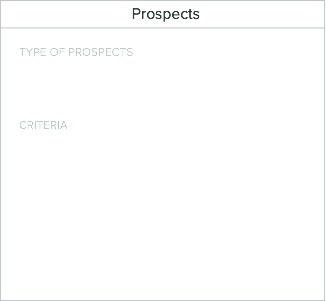
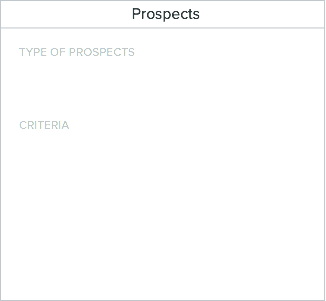
v2
Scrolling and layer over

Changed region(s): [[0.1227, 0.1495, 0.4294, 0.2093], [0.0613, 0.3887, 0.2147, 0.4485]]

diff --git a/connect_customization/opt1/framer/framer.generated.js b/connect_customization/opt1/framer/framer.generated.js
@@ -43,20 +43,20 @@ window.__imported__["0106-Prototype/layers.json.js"] = [
                                 "id": "4F8C3E00-CF2F-43CC-9616-E762C18FD438", 
                                 "image": {
                                     "frame": {
-                                        "height": 15, 
+                                        "height": 14, 
                                         "width": 14, 
                                         "x": 1075, 
-                                        "y": 276
+                                        "y": 277
                                     }, 
                                     "path": "images/Layer-Rectangle_34_Copy_2__Line__Line-4F8C3E00-CF2F-43CC-9616-E762C18FD438.png"
                                 }, 
                                 "imageType": "png", 
                                 "kind": "group", 
                                 "layerFrame": {
-                                    "height": 15, 
+                                    "height": 14, 
                                     "width": 14, 
                                     "x": 1075, 
-                                    "y": 276
+                                    "y": 277
                                 }, 
                                 "maskFrame": null, 
                                 "metadata": {
@@ -133,7 +133,7 @@ window.__imported__["0106-Prototype/layers.json.js"] = [
                     "opacity": 1
                 }, 
                 "name": "PreviewScreen", 
-                "visible": true
+                "visible": false
             }, 
             {
                 "children": [], 
@@ -141,9 +141,9 @@ window.__imported__["0106-Prototype/layers.json.js"] = [
                 "image": {
                     "frame": {
                         "height": 24, 
-                        "width": 111, 
-                        "x": 72, 
-                        "y": 467
+                        "width": 146, 
+                        "x": 35, 
+                        "y": 424
                     }, 
                     "path": "images/Layer-HelpOver-B7579FB9-05DA-4895-A546-760388C447FB.png"
                 }, 
@@ -151,9 +151,9 @@ window.__imported__["0106-Prototype/layers.json.js"] = [
                 "kind": "group", 
                 "layerFrame": {
                     "height": 24, 
-                    "width": 111, 
-                    "x": 72, 
-                    "y": 467
+                    "width": 146, 
+                    "x": 35, 
+                    "y": 424
                 }, 
                 "maskFrame": null, 
                 "metadata": {
@@ -2141,7 +2141,7 @@ window.__imported__["0106-Prototype/layers.json.js"] = [
         }, 
         "maskFrame": null, 
         "metadata": {}, 
-        "name": "01ListBased", 
+        "name": "Artboard", 
         "visible": true
     }
 ]

diff --git a/connect_customization/opt1/imported/0106-Prototype@1x/layers.json.js b/connect_customization/opt1/imported/0106-Prototype@1x/layers.json.js
@@ -40,20 +40,20 @@ window.__imported__["0106-Prototype/layers.json.js"] = [
                                 "id": "4F8C3E00-CF2F-43CC-9616-E762C18FD438", 
                                 "image": {
                                     "frame": {
-                                        "height": 15, 
+                                        "height": 14, 
                                         "width": 14, 
                                         "x": 1075, 
-                                        "y": 276
+                                        "y": 277
                                     }, 
                                     "path": "images/Layer-Rectangle_34_Copy_2__Line__Line-4F8C3E00-CF2F-43CC-9616-E762C18FD438.png"
                                 }, 
                                 "imageType": "png", 
                                 "kind": "group", 
                                 "layerFrame": {
-                                    "height": 15, 
+                                    "height": 14, 
                                     "width": 14, 
                                     "x": 1075, 
-                                    "y": 276
+                                    "y": 277
                                 }, 
                                 "maskFrame": null, 
                                 "metadata": {
@@ -130,7 +130,7 @@ window.__imported__["0106-Prototype/layers.json.js"] = [
                     "opacity": 1
                 }, 
                 "name": "PreviewScreen", 
-                "visible": true
+                "visible": false
             }, 
             {
                 "children": [], 
@@ -138,9 +138,9 @@ window.__imported__["0106-Prototype/layers.json.js"] = [
                 "image": {
                     "frame": {
                         "height": 24, 
-                        "width": 111, 
-                        "x": 72, 
-                        "y": 467
+                        "width": 146, 
+                        "x": 35, 
+                        "y": 424
                     }, 
                     "path": "images/Layer-HelpOver-B7579FB9-05DA-4895-A546-760388C447FB.png"
                 }, 
@@ -148,9 +148,9 @@ window.__imported__["0106-Prototype/layers.json.js"] = [
                 "kind": "group", 
                 "layerFrame": {
                     "height": 24, 
-                    "width": 111, 
-                    "x": 72, 
-                    "y": 467
+                    "width": 146, 
+                    "x": 35, 
+                    "y": 424
                 }, 
                 "maskFrame": null, 
                 "metadata": {
@@ -2138,7 +2138,7 @@ window.__imported__["0106-Prototype/layers.json.js"] = [
         }, 
         "maskFrame": null, 
         "metadata": {}, 
-        "name": "01ListBased", 
+        "name": "Artboard", 
         "visible": true
     }
 ]
